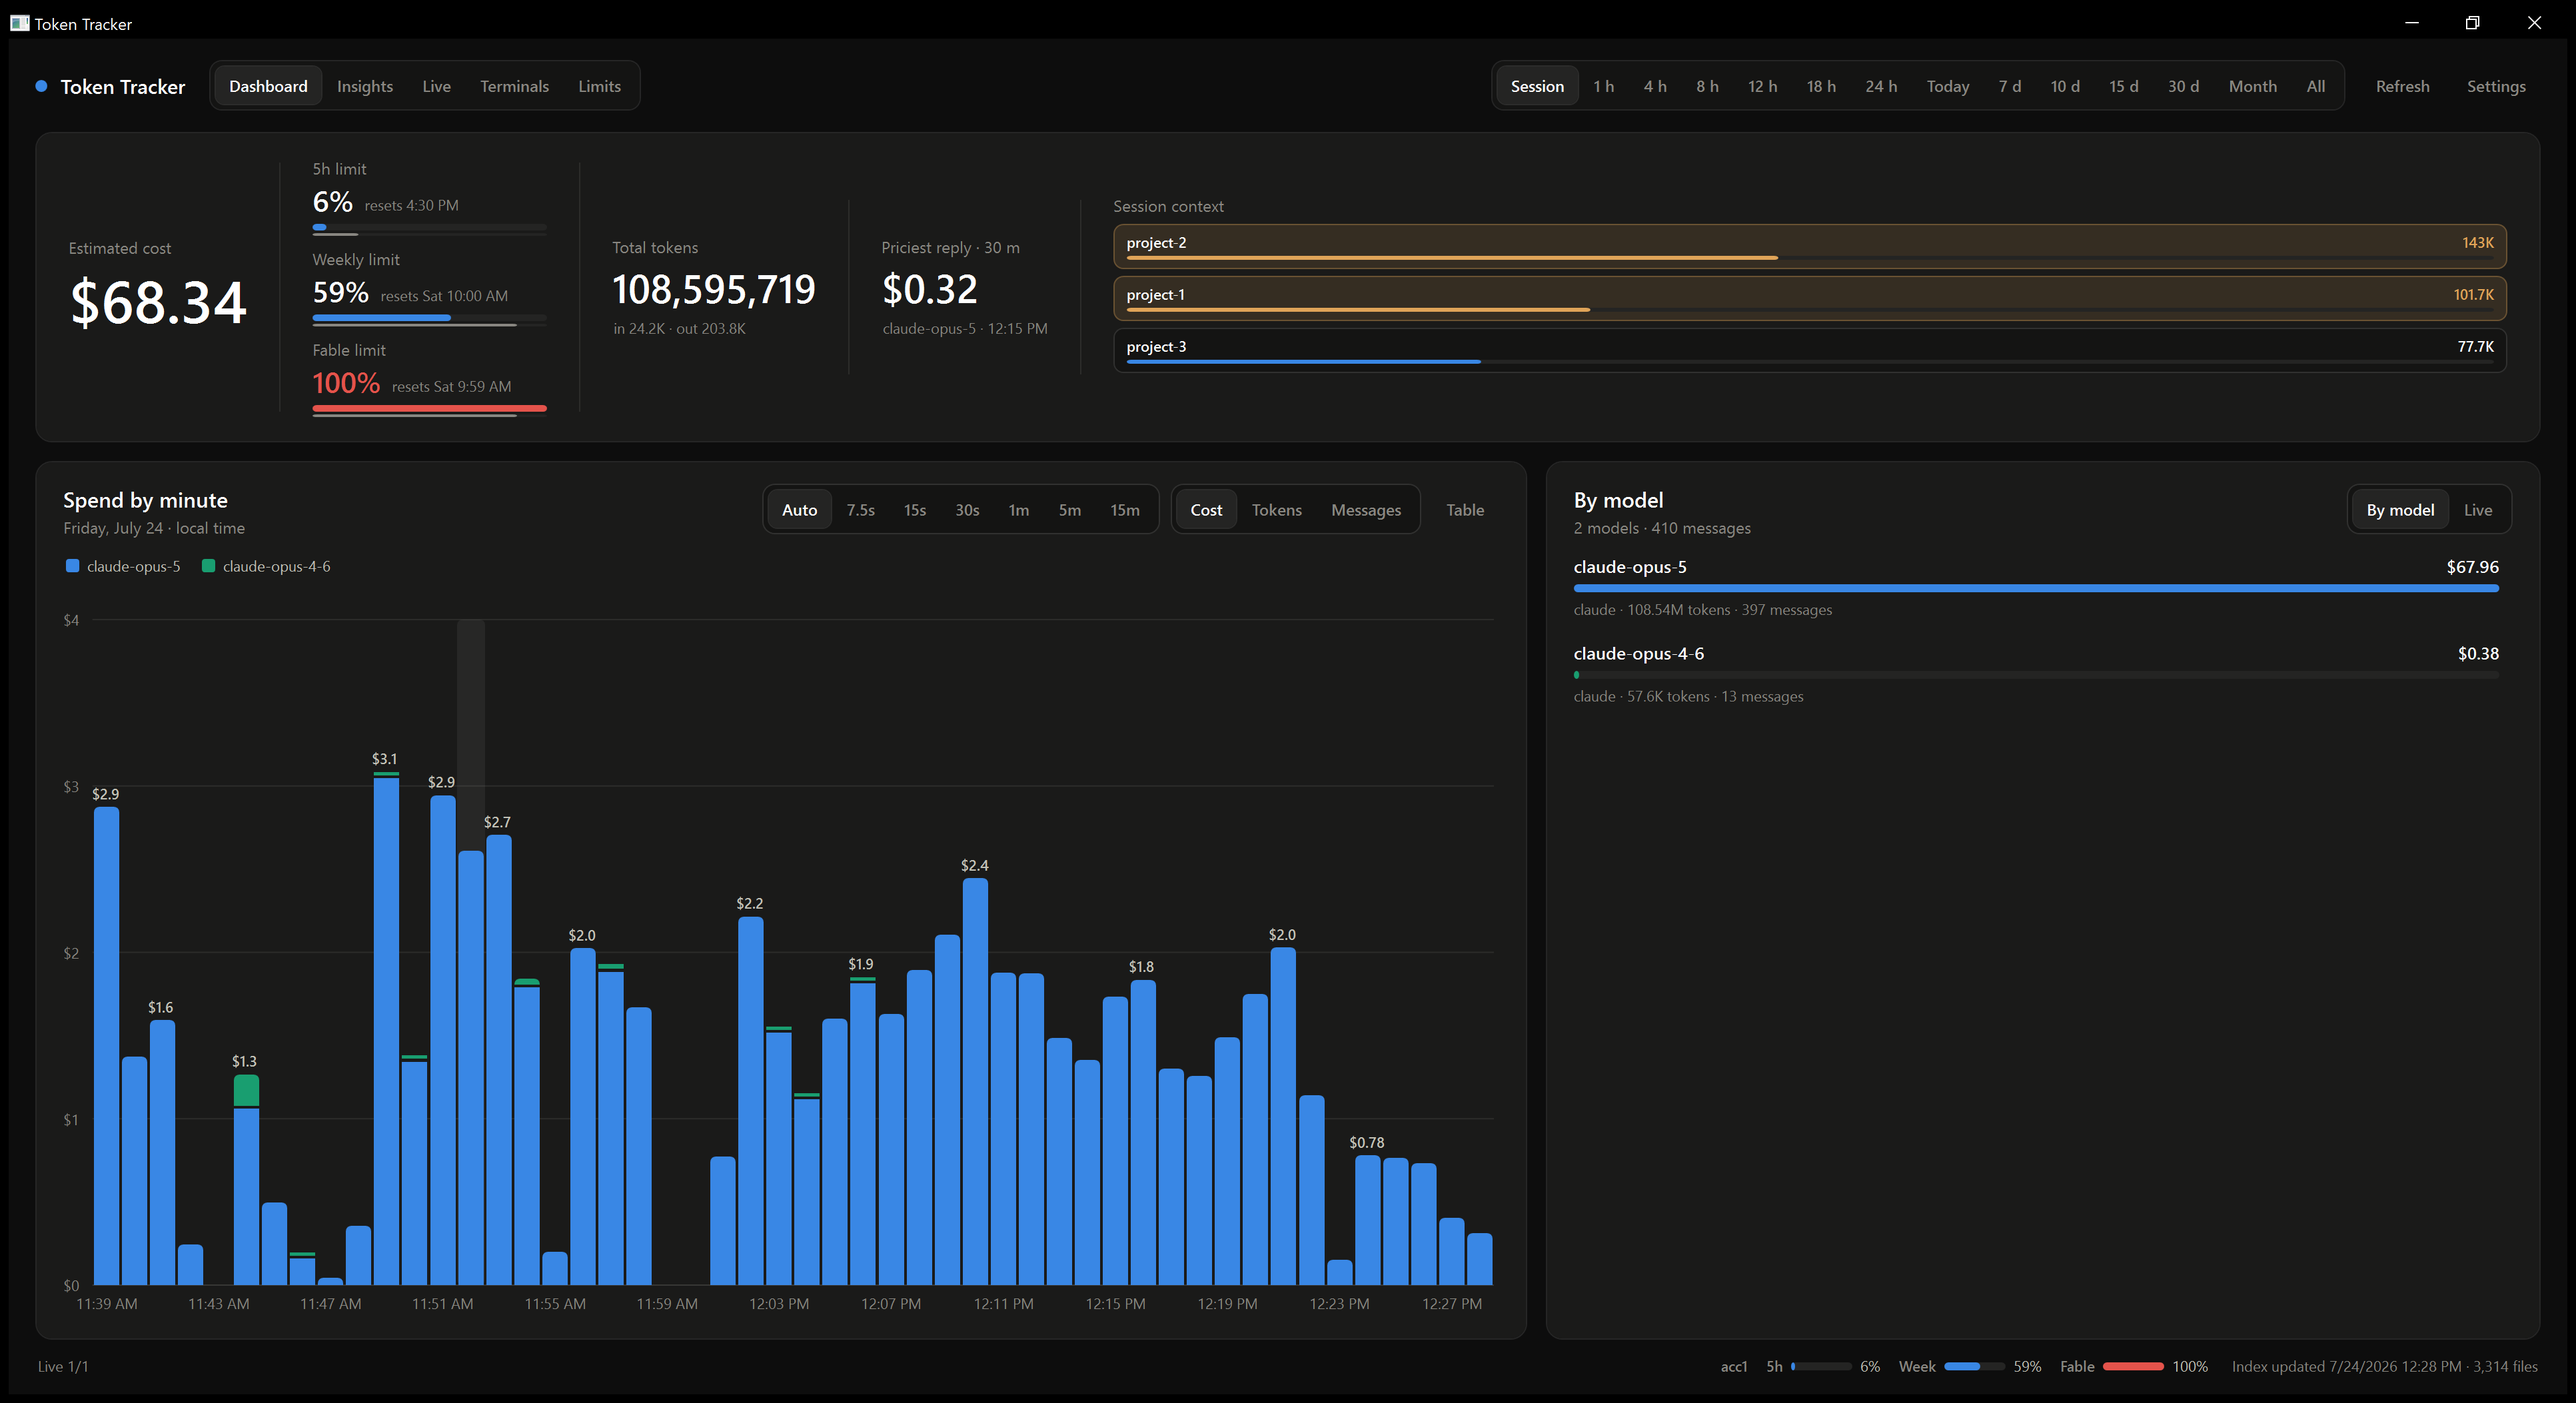
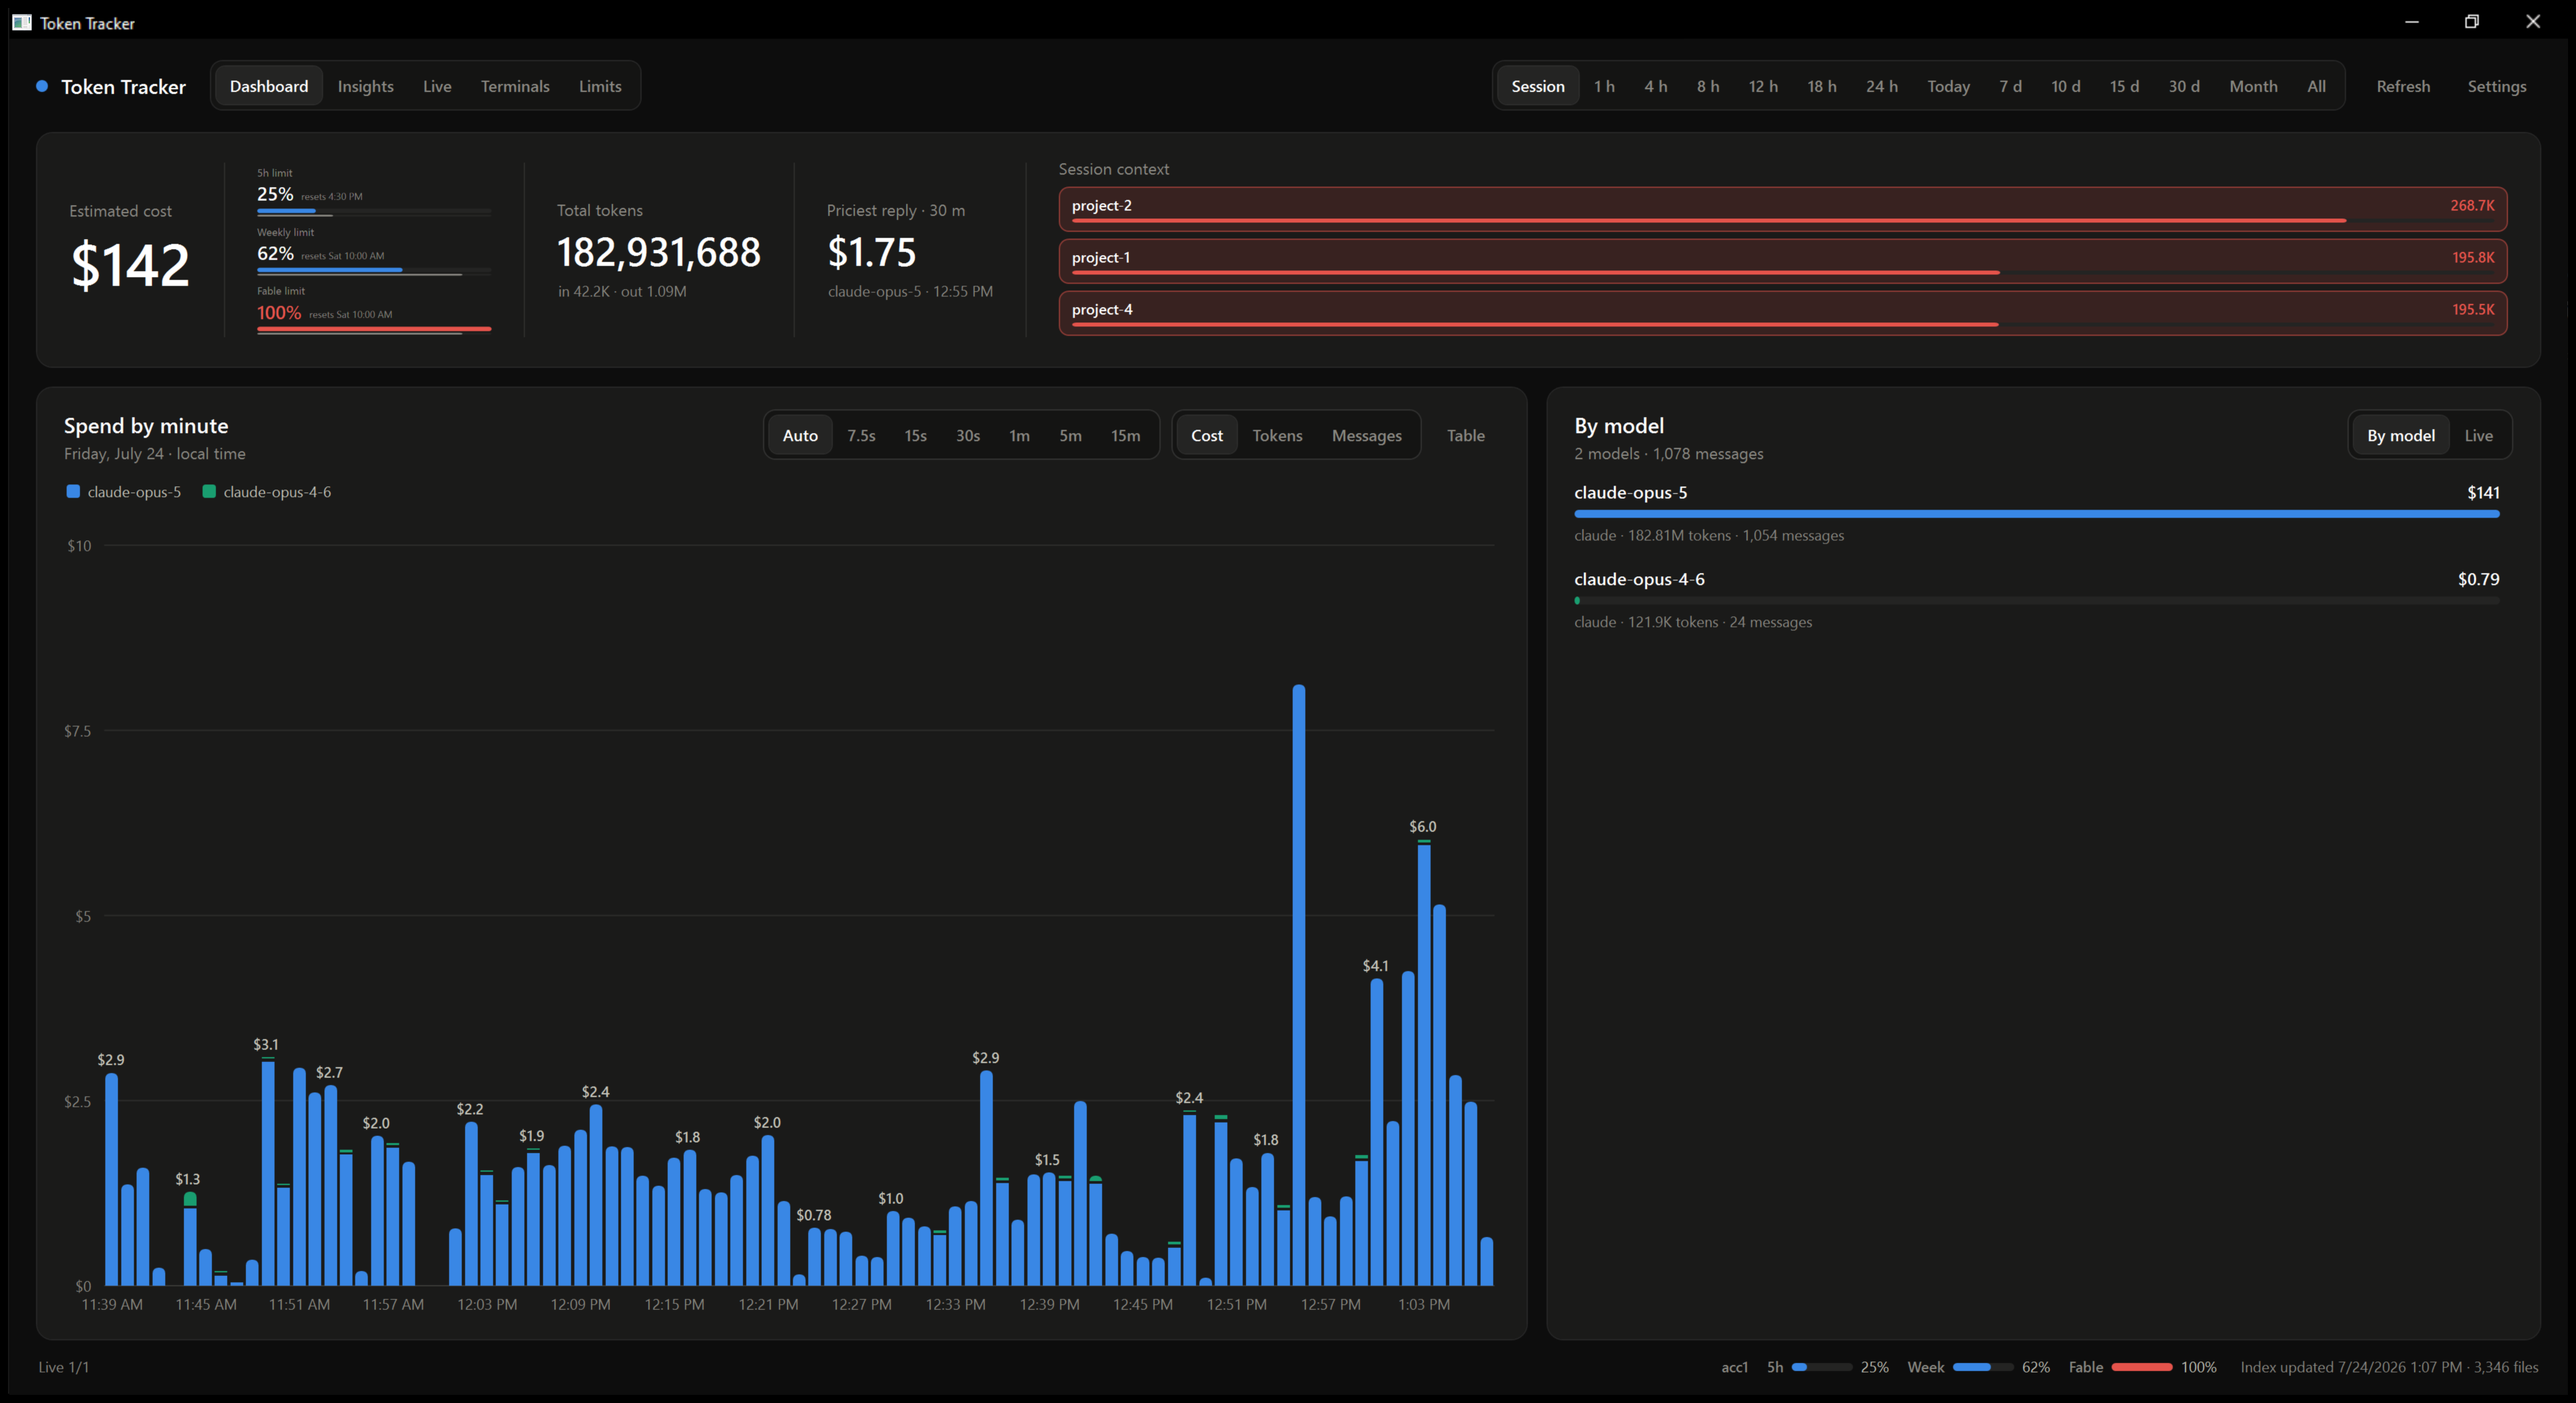
Scale the hero limit meters to fit instead of growing the row
Turning on the third meter made the limits column the tallest thing in the
hero row, so the card grew and pushed the chart, the live feed and everything
below it down the page — the cost of showing one more number was the whole
layout shifting.

The column now scales to the height two meters occupy: same layout, smaller
type. The blocks are identical, so measuring three yields the height of one,
and from that the budget two would have taken; the content is widened by the
same factor it is scaled down by, so the column lands back on its original
width. One and two meters are untouched.

Verified against the running app: the chart's top edge sits at the same
coordinate with one, two and three meters shown.

Claude-Session: https://claude.ai/code/session_01Da3SEQLnEHoHo3TEbFwAfk

diff --git a/source/MainWindow.xaml.cs b/source/MainWindow.xaml.cs
@@ -951,6 +951,13 @@ public partial class MainWindow : Window
         ApplyHeroLimitVisibility();
     }
 
+    /// <summary>Vertical gap between two stacked hero meters.</summary>
+    private const double HeroLimitGap = 9;
+
+    /// <summary>The column's laid-out width, read once from XAML — the scale
+    /// below divides by it, so it must be the pre-scale value.</summary>
+    private double? _heroLimitsWidth;
+
     /// <summary>Shows only the meters picked in Settings. The gap between blocks
     /// rides on the block itself so whichever one lands on top sits flush, and
     /// the column plus its divider disappear when nothing is selected.</summary>
@@ -972,13 +979,49 @@ public partial class MainWindow : Window
                 continue;
             }
 
-            block.Margin = new Thickness(0, isFirstVisible ? 0 : 9, 0, 0);
+            block.Margin = new Thickness(0, isFirstVisible ? 0 : HeroLimitGap, 0, 0);
             isFirstVisible = false;
         }
 
         var anyVisible = blocks.Any(entry => entry.Show);
         HeroLimits.Visibility = anyVisible ? Visibility.Visible : Visibility.Collapsed;
         HeroLimitsDivider.Visibility = anyVisible ? Visibility.Visible : Visibility.Collapsed;
+        FitHeroLimits(blocks.Count(entry => entry.Show));
+    }
+
+    /// <summary>
+    /// Keeps the hero row the height two meters made it. This column is the
+    /// tallest thing in the row, so a third meter would push the chart, the
+    /// live feed and everything below it down the page. Instead the column
+    /// scales to the two-meter budget: same layout, smaller type. The blocks
+    /// are identical, so the natural measurement of three yields the height of
+    /// one, and from that the height two would have taken.
+    /// </summary>
+    private void FitHeroLimits(int visible)
+    {
+        _heroLimitsWidth ??= HeroLimits.Width;
+        var width = _heroLimitsWidth.Value;
+        HeroLimits.LayoutTransform = Transform.Identity;
+        HeroLimits.Width = width;
+        if (visible < 3)
+        {
+            return;
+        }
+
+        HeroLimits.Measure(new Size(width, double.PositiveInfinity));
+        var natural = HeroLimits.DesiredSize.Height;
+        var block = (natural - (visible - 1) * HeroLimitGap) / visible;
+        var budget = 2 * block + HeroLimitGap;
+        if (natural <= budget || budget <= 0)
+        {
+            return;
+        }
+
+        // Scaling shrinks the column sideways too, so widen the unscaled
+        // content by the same factor to land back on the original width.
+        var scale = budget / natural;
+        HeroLimits.Width = width / scale;
+        HeroLimits.LayoutTransform = new ScaleTransform(scale, scale);
     }
 
     private void UpdateHeroLimit(

diff --git a/README.md b/README.md
@@ -10,7 +10,7 @@ A **Hide personal data** toggle in Settings replaces project names, folder paths
 
 ![Dashboard](docs/dashboard.png)
 
-The classic view: estimated cost with a comparison against the prior period, token totals (input, output, reasoning, cache), a stacked per-model timeline, and a by-model breakdown. Beside the cost sit the limit meters that actually stop work — the 5-hour session window, the weekly all-models allowance, and the weekly per-model row — each with a reset time and a thin bar showing how far through the window you are; the scoped row can be pinned at 100% while the overall week still has room, so they are worth reading together. Settings has a checkbox per meter, so you can keep all three, watch only the 5-hour window, or hide the block entirely. Range presets (1 h up to All time) scope everything, and the bar size is yours to pick — down to 15-second bars over the last hour or minute bars across a half day, whatever combination fits; **Auto** chooses sensibly, and the selector only offers sizes that make sense for the current range (no 1-day bars on a 1-hour view). The chart flips between cost, token composition, and messages, every column has a full-breakdown tooltip, and a **Table** toggle shows the same numbers as text. A header toggle swaps the right panel between the **By model** breakdown and the **live cup** — the same cup as the Live tab, same state, still interactive — so the totals and the real-time view share one page.
+The classic view: estimated cost with a comparison against the prior period, token totals (input, output, reasoning, cache), a stacked per-model timeline, and a by-model breakdown. Beside the cost sit the limit meters that actually stop work — the 5-hour session window, the weekly all-models allowance, and the weekly per-model row — each with a reset time and a thin bar showing how far through the window you are; the scoped row can be pinned at 100% while the overall week still has room, so they are worth reading together. Settings has a checkbox per meter, so you can keep all three, watch only the 5-hour window, or hide the block entirely; with all three on they scale down to the height two occupy, so turning one on never pushes the rest of the page down. Range presets (1 h up to All time) scope everything, and the bar size is yours to pick — down to 15-second bars over the last hour or minute bars across a half day, whatever combination fits; **Auto** chooses sensibly, and the selector only offers sizes that make sense for the current range (no 1-day bars on a 1-hour view). The chart flips between cost, token composition, and messages, every column has a full-breakdown tooltip, and a **Table** toggle shows the same numbers as text. A header toggle swaps the right panel between the **By model** breakdown and the **live cup** — the same cup as the Live tab, same state, still interactive — so the totals and the real-time view share one page.
 
 ## Insights
 
